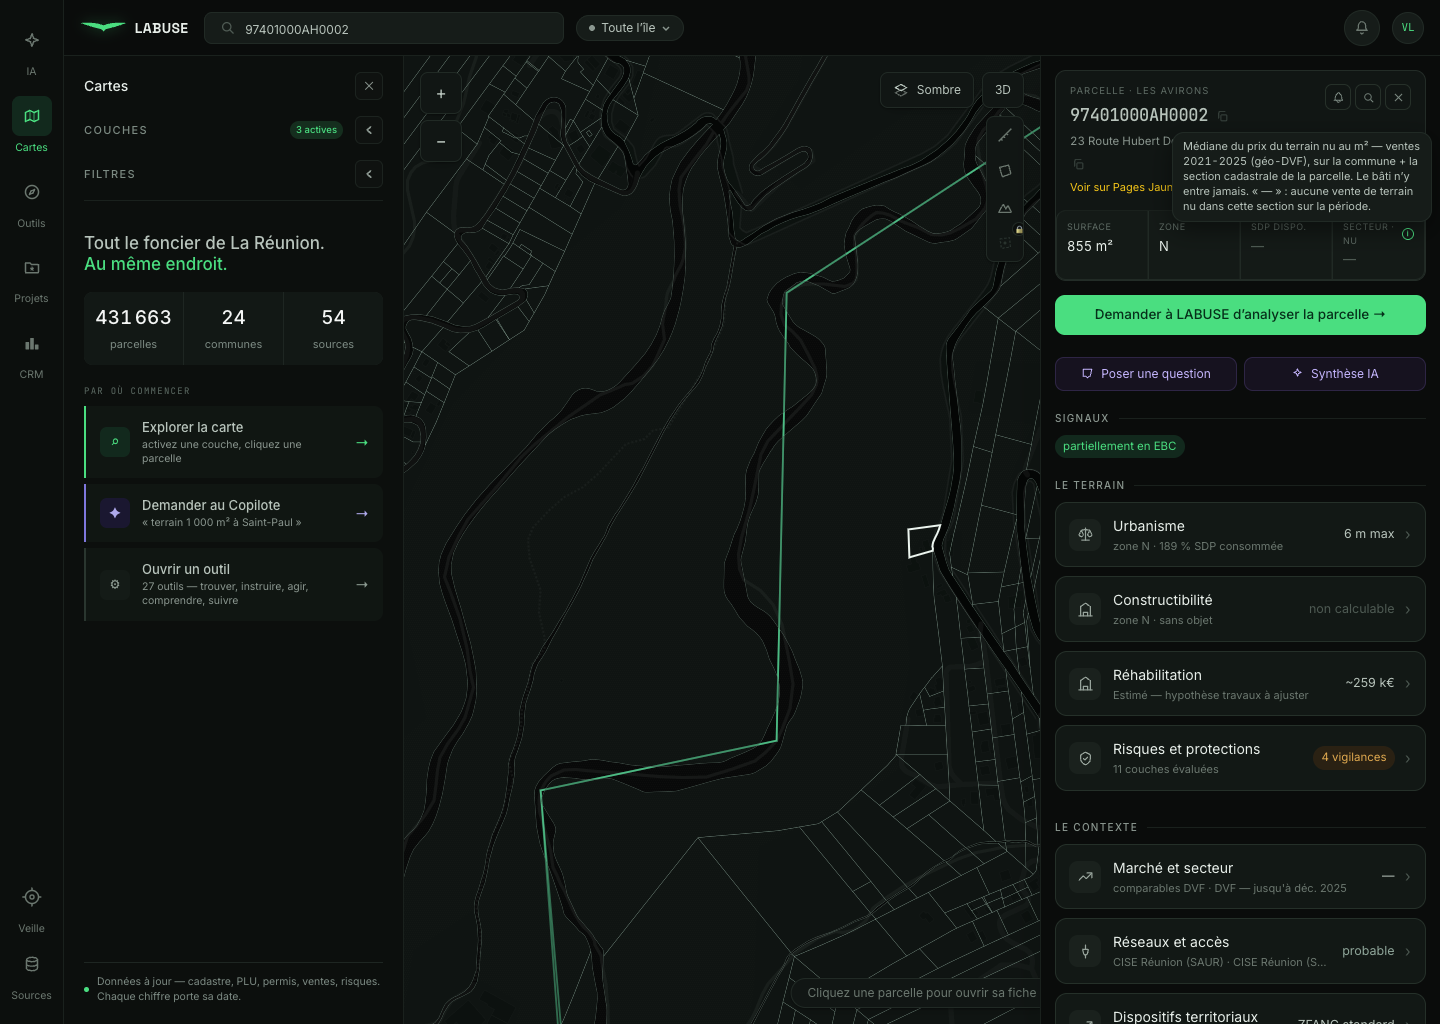
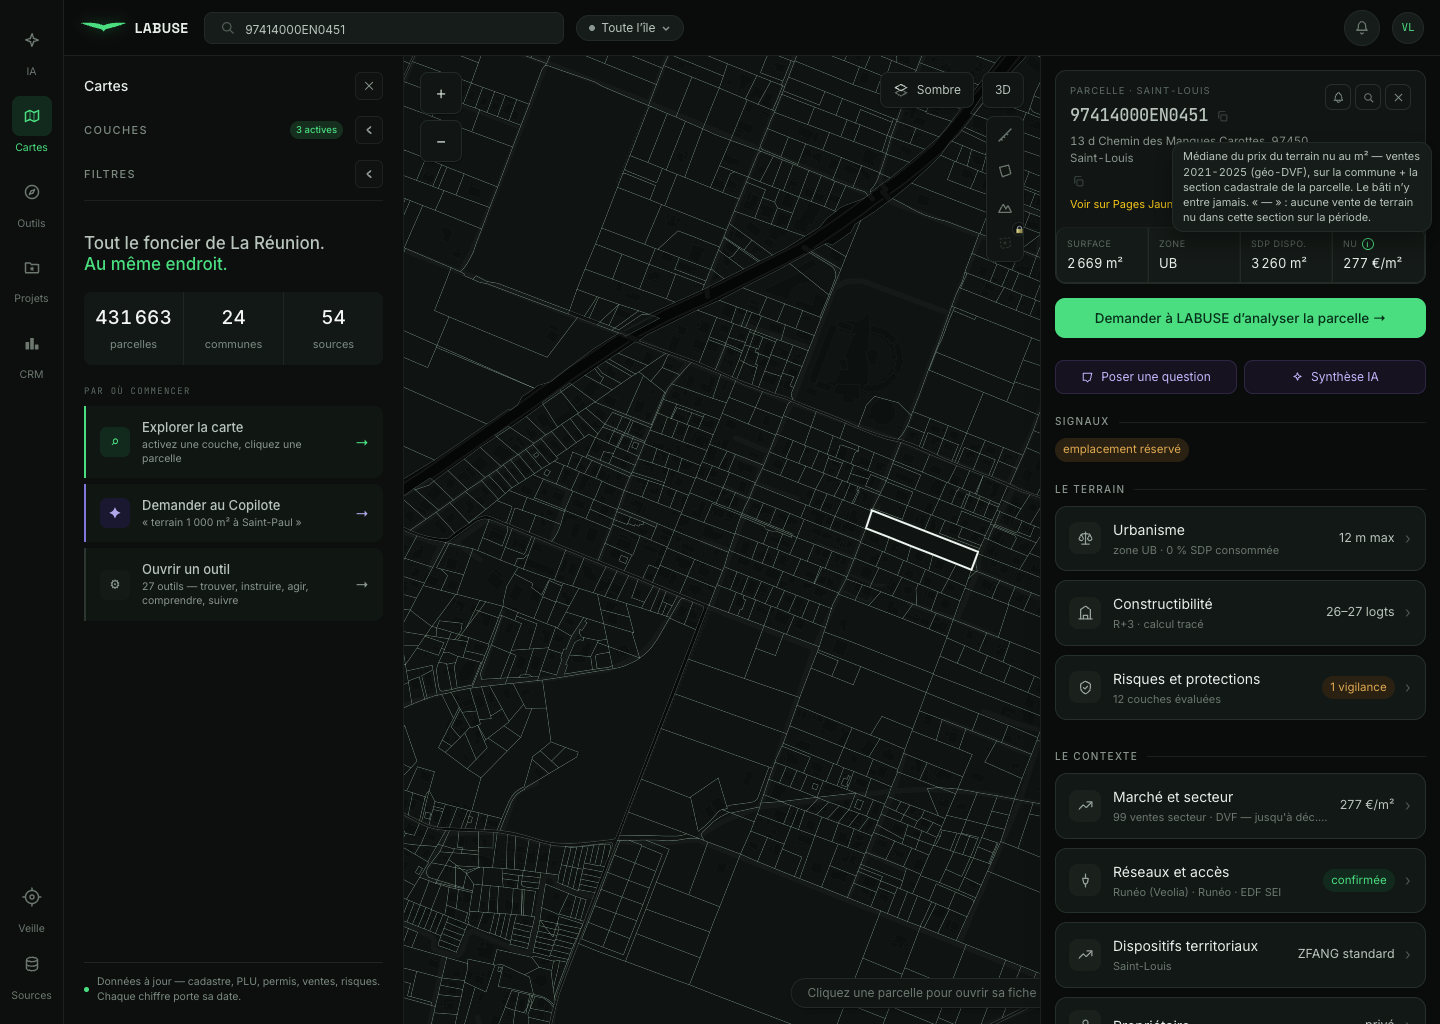
Fiche : case NU sur une ligne

diff --git a/frontend/src/components/fiche/Fiche.tsx b/frontend/src/components/fiche/Fiche.tsx
@@ -1506,9 +1506,10 @@ export function Fiche({ idu }: { idu: string }) {
             // M56-B4 point 3 — un zéro n'est pas une absence : SDP nulle (non constructible) ou prix
             // nul = donnée sans objet → « — », jamais « 0 m² » / « 0 €/m² » présentés comme un résultat.
             { l: 'SDP dispo.', v: reglesSdp != null && reglesSdp > 0 ? `${fmtInt(reglesSdp)} m²` : '—' },
-            // M137-G — « SECTEUR · NU » : prix du TERRAIN NU seul (jamais du bâti). Le « i » dit la
-            // méthode ET le cas vide (« — » = aucune vente de terrain nu dans la section sur la période).
-            { l: 'Secteur · nu',
+            // M137-G — « NU » : prix du TERRAIN NU seul (jamais du bâti). Libellé court (tenait sur
+            // deux lignes en « Secteur · nu ») ; le « i » dit la méthode ET le cas vide (« — » =
+            // aucune vente de terrain nu dans la section sur la période).
+            { l: 'Nu',
               v: dvfSecteur?.mediane_prix_m2 != null && dvfSecteur.mediane_prix_m2 > 0 ? `${fmtInt(dvfSecteur.mediane_prix_m2)} €/m²` : '—',
               i: 'Médiane du prix du terrain nu au m² — ventes 2021-2025 (géo-DVF), sur la commune + la section cadastrale de la parcelle. Le bâti n’y entre jamais. « — » : aucune vente de terrain nu dans cette section sur la période.' },
           ]
